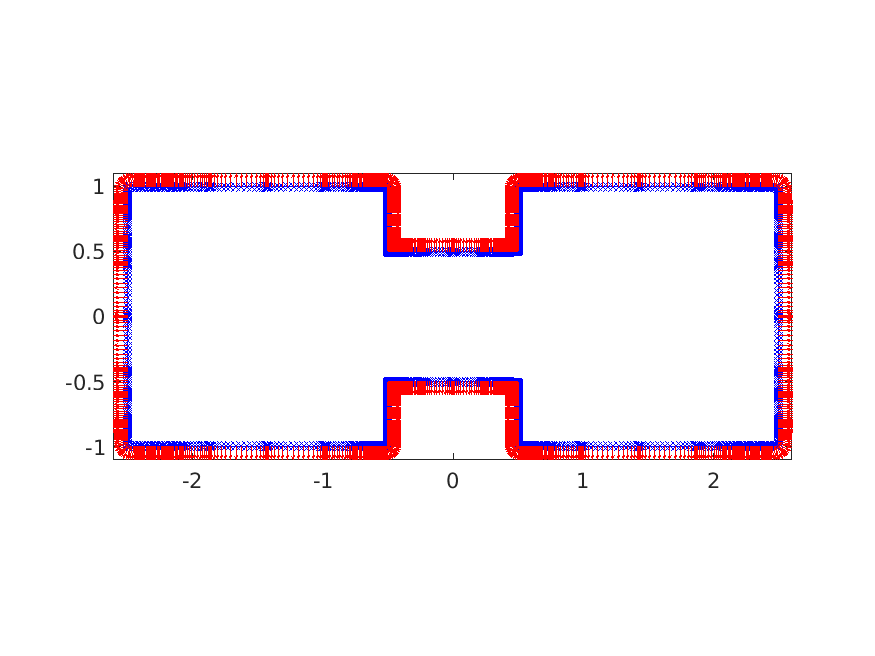
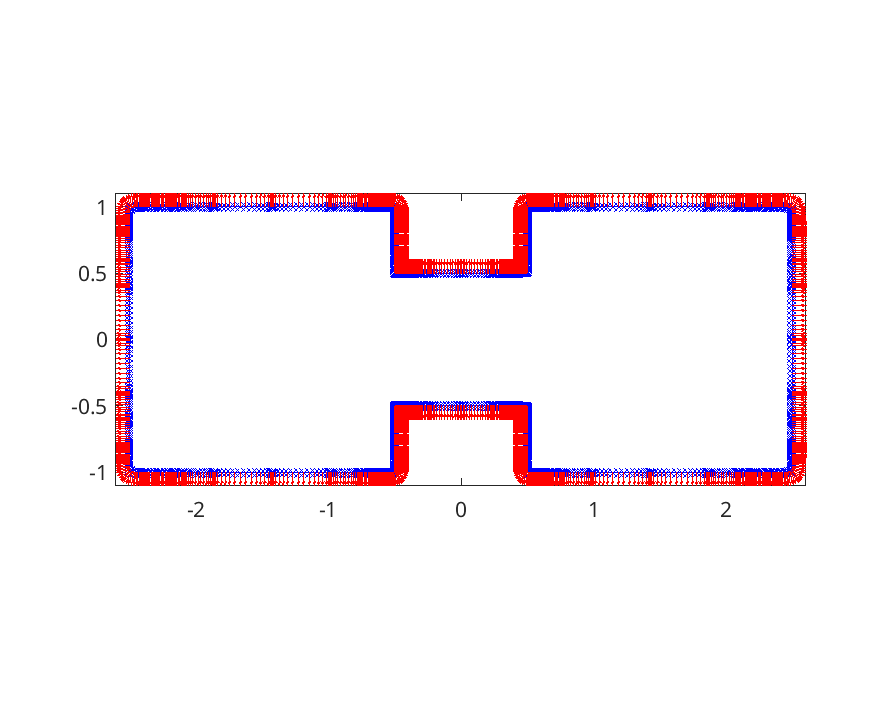
adding helpers for rotate/reflect. bringing to chunkgraph as well. add new syntax to docs.

Changed region(s): [[0.0617, 0.2439, 0.9257, 0.7622], [0.432, 0.6098, 0.4629, 0.6402]]

diff --git a/chunkie/@chunker/chunker.m b/chunkie/@chunker/chunker.m
@@ -29,9 +29,12 @@ classdef chunker
 % chunker methods: 
 %   chunker(p,t,w) - construct an empty chunker with given preferences and
 %       precomputed Legendre nodes/weights (optional)
+%   obj = plus(v,obj) - provides translation via v + obj
+%   obj = mtimes(A,obj) - provides affine transformation via A*obj
+%   obj = rotate(obj,theta,r0,r1) - rotate by angle 
+%   obj = reflect(obj,theta,r0,r1) - reflect across line
 %   obj = addchunk(obj,nchadd) - add nchadd chunks to the structure 
 %       (initialized with zeros)
-%   obj = obj.move(r0,r1,trotat,scale) - translate, rotate, etc
 %   obj = makedatarows(obj,nrows) - add nrows rows to the data storage.
 %   [obj,info] = sort(obj) - sort the chunks so that adjacent chunks are
 %        stored sequentially
@@ -65,6 +68,7 @@ classdef chunker
 %              number of connected components, etc
 %   [re,taue] = chunkends(obj,ich) - get the endpoints of chunks
 %   flag = flagnear(obj,pts,opts) - flag points near the boundary
+%   obj = obj.move(r0,r1,trotat,scale) - translate, rotate, etc
 
 
 % author: Travis Askham (askhamwhat@gmail.com)
@@ -371,6 +375,8 @@ classdef chunker
         kappa = signed_curvature(obj)
         obj = plus(v,obj)
         obj = mtimes(A,obj)
+        obj = rotate(obj,theta,r0,r1)
+        obj = reflect(obj,theta,r0,r1)
     end
     methods(Static)
         obj = chunkerfunc(fcurve,varargin)

diff --git a/chunkie/@chunkgraph/reflect.m b/chunkie/@chunkgraph/reflect.m
@@ -1,0 +1,48 @@
+function cg = reflect(cg,theta,r0,r1)
+%REFLECT reflect chunkgraph object across line specified by angle
+%
+% Syntax 
+%   cg = cg.reflect(theta,r0,r1);
+%
+% will shift the chunkgraph geometry by -r0, reflect it across the line 
+% spanned by [cos(theta); sin(theta)] and shift back by +r1, i.e. the 
+% coordinates will be changed by 
+%
+% r <- M*(r-r0) + r1
+%
+% where M is the reflection matrix [cos(2*theta) sin(2*theta); sin(2*theta)
+% -cos(2*theta)]
+%
+% Input:
+%   theta - float, angle made by reflection axis in radians. if empty, 
+%              theta=0
+%   r0 - length 2 array, center of reflection if empty, r0=[0;0]
+%   r1 - length 2 array, new center. if empty, r1=[0;0]
+% 
+% Output:
+%   cg - chunkgraph object with positions, derivatives, normals etc updated
+%   according to the formula above. 
+%
+
+if nargin < 3 || isempty(r0)
+    r0 = [0;0];
+end
+if nargin < 4 || isempty(r1)
+    r1 = [0;0];
+end
+
+assert(isreal(theta),"reflect only supports real angles");
+
+for j = 1:length(cg.echnks)
+    cg.echnks(j) = cg.echnks(j).reflect(theta,r0,r1);
+end
+
+c = cos(2*theta);
+s = sin(2*theta);
+refmat = [c s; s -c];
+
+cg.verts = refmat*(cg.verts-r0) + r1;
+
+% region stuff needs recomp
+cg.vstruc = procverts(cg);
+cg.regions = findregions(cg);

diff --git a/chunkie/@chunker/reflect.m b/chunkie/@chunker/reflect.m
@@ -1,0 +1,43 @@
+function chnkr = reflect(chnkr,theta,r0,r1)
+%REFLECT reflect chunker object across line specified by angle
+%
+% Syntax 
+%   chnkr = chnkr.reflect(theta,r0,r1);
+%
+% will shift the chunker geometry by -r0, reflect it across the line 
+% spanned by [cos(theta); sin(theta)] and shift back by +r1, i.e. the 
+% coordinates will be changed by 
+%
+% r <- M*(r-r0) + r1
+%
+% where M is the reflection matrix [cos(2*theta) sin(2*theta); sin(2*theta)
+% -cos(2*theta)]
+%
+% Input:
+%   theta - float, angle made by reflection axis in radians. if empty, 
+%              theta=0
+%   r0 - length 2 array, center of reflection if empty, r0=[0;0]
+%   r1 - length 2 array, new center. if empty, r1=[0;0]
+% 
+% Output:
+%   chnkr - chunker object with positions, derivatives, normals etc updated
+%   according to the formula above. 
+%
+
+if nargin < 3 || isempty(r0)
+    r0 = [0;0];
+end
+if nargin < 4 || isempty(r1)
+    r1 = [0;0];
+end
+
+assert(isreal(theta),"reflect only supports real angles");
+
+c = cos(2*theta);
+s = sin(2*theta);
+refmat = [c s; s -c];
+
+chnkr.r(:,:) = refmat*(chnkr.r(:,:)-r0) + r1;
+chnkr.d(:,:) = refmat*chnkr.d(:,:);
+chnkr.d2(:,:) = refmat*chnkr.d2(:,:);
+chnkr.n(:,:) = refmat*chnkr.n(:,:);

diff --git a/chunkie/@chunker/rotate.m b/chunkie/@chunker/rotate.m
@@ -1,0 +1,40 @@
+function chnkr = rotate(chnkr,theta,r0,r1)
+%ROTATE rotate chunker object by specified angle
+%
+% Syntax 
+%   chnkr = chnkr.rotate(theta,r0,r1);
+%
+% will shift the chunker geometry by -r0, rotate it by angle trotat, 
+% and shift back by +r1, i.e. the coordinates will be changed by 
+%
+% r <- M*(r-r0) + r1
+%
+% where M is the rotation matrix for theta radians
+%
+% Input:
+%   theta - float, angle of rotation in radians. if empty, trotat=0
+%   r0 - length 2 array, center of rotation. if empty, r0=[0;0]
+%   r1 - length 2 array, new center. if empty, r1=[0;0]
+% 
+% Output:
+%   chnkr - chunker object with positions, derivatives, normals etc updated
+%   according to the formula above. 
+%
+
+if nargin < 3 || isempty(r0)
+    r0 = [0;0];
+end
+if nargin < 4 || isempty(r1)
+    r1 = [0;0];
+end
+
+assert(isreal(theta),"rotate only supports real angles");
+
+c = cos(theta);
+s = sin(theta);
+rotmat = [c -s; s c];
+
+chnkr.r(:,:) = rotmat*(chnkr.r(:,:)-r0) + r1;
+chnkr.d(:,:) = rotmat*chnkr.d(:,:);
+chnkr.d2(:,:) = rotmat*chnkr.d2(:,:);
+chnkr.n(:,:) = rotmat*chnkr.n(:,:);

diff --git a/chunkie/@chunkgraph/rotate.m b/chunkie/@chunkgraph/rotate.m
@@ -1,0 +1,41 @@
+function cg = rotate(cg,theta,r0,r1)
+%ROTATE rotate chunkgraph object by specified angle
+%
+% Syntax 
+%   cg = cg.rotate(theta,r0,r1);
+%
+% will shift the chunkgraph geometry by -r0, rotate it by angle trotat, 
+% and shift back by +r1, i.e. the coordinates will be changed by 
+%
+% r <- M*(r-r0) + r1
+%
+% where M is the rotation matrix for theta radians
+%
+% Input:
+%   theta - float, angle of rotation in radians. if empty, trotat=0
+%   r0 - length 2 array, center of rotation. if empty, r0=[0;0]
+%   r1 - length 2 array, new center. if empty, r1=[0;0]
+% 
+% Output:
+%   cg - chunkgraph object with positions, derivatives, normals etc updated
+%   according to the formula above. 
+%
+
+if nargin < 3 || isempty(r0)
+    r0 = [0;0];
+end
+if nargin < 4 || isempty(r1)
+    r1 = [0;0];
+end
+
+assert(isreal(theta),"rotate only supports real angles");
+
+for j = 1:length(cg.echnks)
+    cg.echnks(j) = cg.echnks(j).rotate(theta,r0,r1);
+end
+
+c = cos(theta);
+s = sin(theta);
+rotmat = [c -s; s c];
+
+cg.verts = rotmat*(cg.verts-r0) + r1;

diff --git a/chunkie/guide/guide_chunkers.m b/chunkie/guide/guide_chunkers.m
@@ -4,7 +4,6 @@
 % It shows the most common methods for building and working with chunkers.
 %
 
-addpaths_loc();
 rng(1234);
 
 %%%%%%%%%%%%% circle
@@ -84,14 +83,21 @@ saveas(figure(4),"guide_chunkers_barbell.png");
 % make a copy of the random mode domain
 chnkr5 = chnkr2;
 
-% rotate it using move 
+% rotate it using rotate method
 theta = pi/4; 
-chnkr5 = chnkr5.move([],[],theta);
+chnkr5 = chnkr5.rotate(theta);
 
-% make a copy of the circle domain and shift it 
+% reflect it across y axis using reflect
+chnkr5 = chnkr5.reflect(pi/2);
+% reverse orientation to get inward normals again (reflect changes
+% orientation)
+chnkr5 = chnkr5.reverse();
+
+% make a copy of the circle domain, transform and shift it 
 chnkr6 = chnkr1;
-r1 = [-0.3;0.4];
-chnkr6 = chnkr6.move([],r1);
+A = 0.5*[2 -1; 1 1]; % positive determinant, so doesn't change orientation
+r1 = [-1;0.5];
+chnkr6 = r1 + A*chnkr6;
 % reverse the orientation
 chnkr6 = chnkr6.reverse();
 

diff --git a/chunkie/@chunkgraph/chunkgraph.m b/chunkie/@chunkgraph/chunkgraph.m
@@ -50,6 +50,10 @@ classdef chunkgraph
 %         meets with other chunk ends in a vertex. 
 %
 % chunkgraph methods:
+%   obj = plus(v,obj) - provides translation via v + obj
+%   obj = mtimes(A,obj) - provides affine transformation via A*obj
+%   obj = rotate(obj,theta,r0,r1) - rotate by angle 
+%   obj = reflect(obj,theta,r0,r1) - reflect across line
 %   plot(obj, varargin) - plot the chunkgraph
 %   quiver(obj, varargin) - quiver plot of chunkgraph points and normals
 %   plot_regions(obj, iflabel) - plot the chunkgraph with region and 
@@ -429,6 +433,8 @@ classdef chunkgraph
         edge_regs = find_edge_regions(obj)
         obj = plus(v,obj)
         obj = mtimes(A,obj)        
+        obj = rotate(obj,theta,r0,r1)
+        obj = reflect(obj,theta,r0,r1)   
     end
 
     methods(Static)

diff --git a/devtools/test/chunkgraph_basicTest.m b/devtools/test/chunkgraph_basicTest.m
@@ -120,6 +120,18 @@ ids = chunkgraphinregion(cg,targs);
 
 assert(nnz(ids(:)-idstrue(:)) == 0)
 
+cg = cg.rotate(pi/4);
+targs = [cos(pi/4) -sin(pi/4); sin(pi/4) cos(pi/4)]*targs;
+
+ids = chunkgraphinregion(cg,targs);
+assert(nnz(ids(:)-idstrue(:)) == 0)
+
+cg = cg.reflect(pi/2);
+targs(1,:) = -targs(1,:);
+
+ids = chunkgraphinregion(cg,targs);
+assert(nnz(ids(:)-idstrue(:)) == 0)
+
 % nested triangles
 
 verts = [1 0 -1 2 0 -2; 0 1 0 -1 2 -1];

diff --git a/chunkie/@chunkgraph/mtimes.m b/chunkie/@chunkgraph/mtimes.m
@@ -23,6 +23,12 @@ if isa(A,"numeric") && isa(cg,"chunkgraph")
         error("CHUNKER:mtimes:invalid",...
             "matrix must have compatible size for transforming coordinates");
     end
+    
+    cg.wts = weights(cg);
+    % region stuff needs recomp
+    cg.vstruc = procverts(cg);
+    cg.regions = findregions(cg);
+    
 elseif isnumeric(cg) && isscalar(cg)
     cg = mtimes(cg,A);
 elseif isnumeric(cg)

diff --git a/docs/guide/chunkers.rst b/docs/guide/chunkers.rst
@@ -103,16 +103,21 @@ Working with Chunkers
 ----------------------
 
 Instances of :matlab:`chunker` objects can be manipulated in
-several ways. 
-Users are free to update the position and derivative
-fields of :matlab:`chunker` objects, though the software will
-not check whether the user has done this in a consistent
-manner. 
+several ways. Multiplying the object by a matrix and adding a
+vector to the object will update the coordinates (and derivatives
+and normals) accordingly. There are also some built in functions
+for standard operations like rotations and reflections. An important
+operation is the :matlab:`reverse` function, which changes the orientation
+of the curve (normal vectors point to the right from the perspective
+of an observer moving in the positive direction along the curve).
 
 The example below takes the circle and random mode domains
 created above and creates a new domain from them with
 multiple components. The random mode domain is rotated and
-the circle is shifted and its orientation is reversed, so
+reflected, then its orientation is reversed to undo the change
+of orientation induced by the reflection (maintaining outward
+pointing normals). An affine transformation is applied to the
+circle and its orientation is also reversed, so
 that the normal for the combined domain consistently points out
 of the interior. 
 
